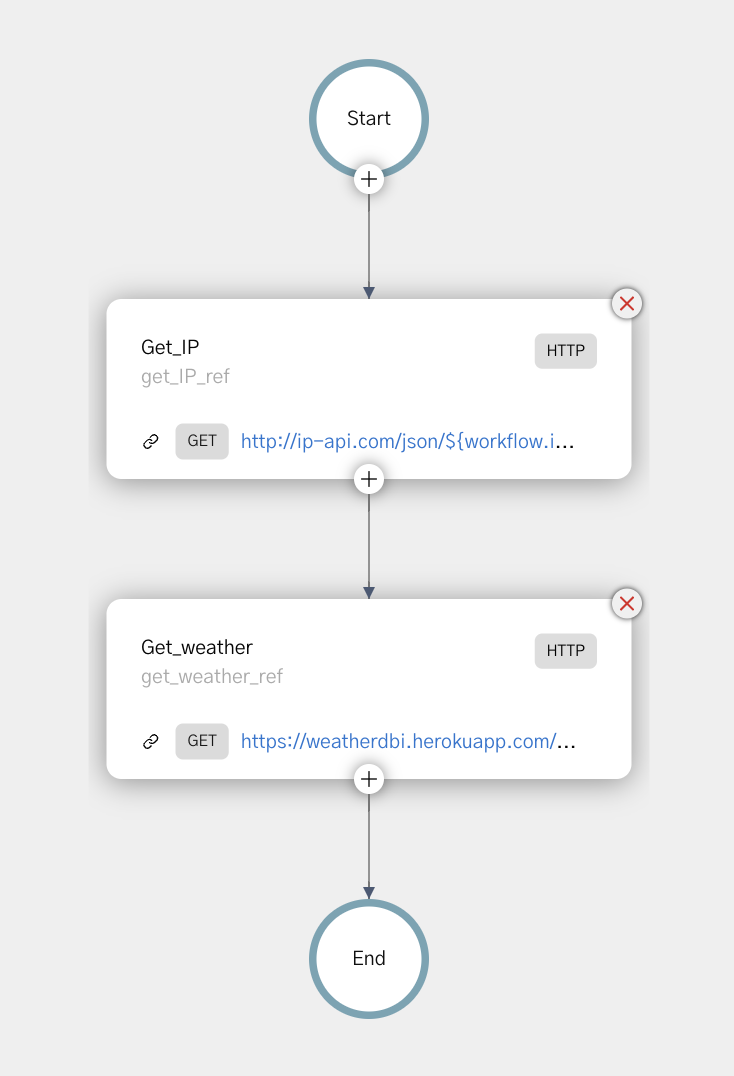
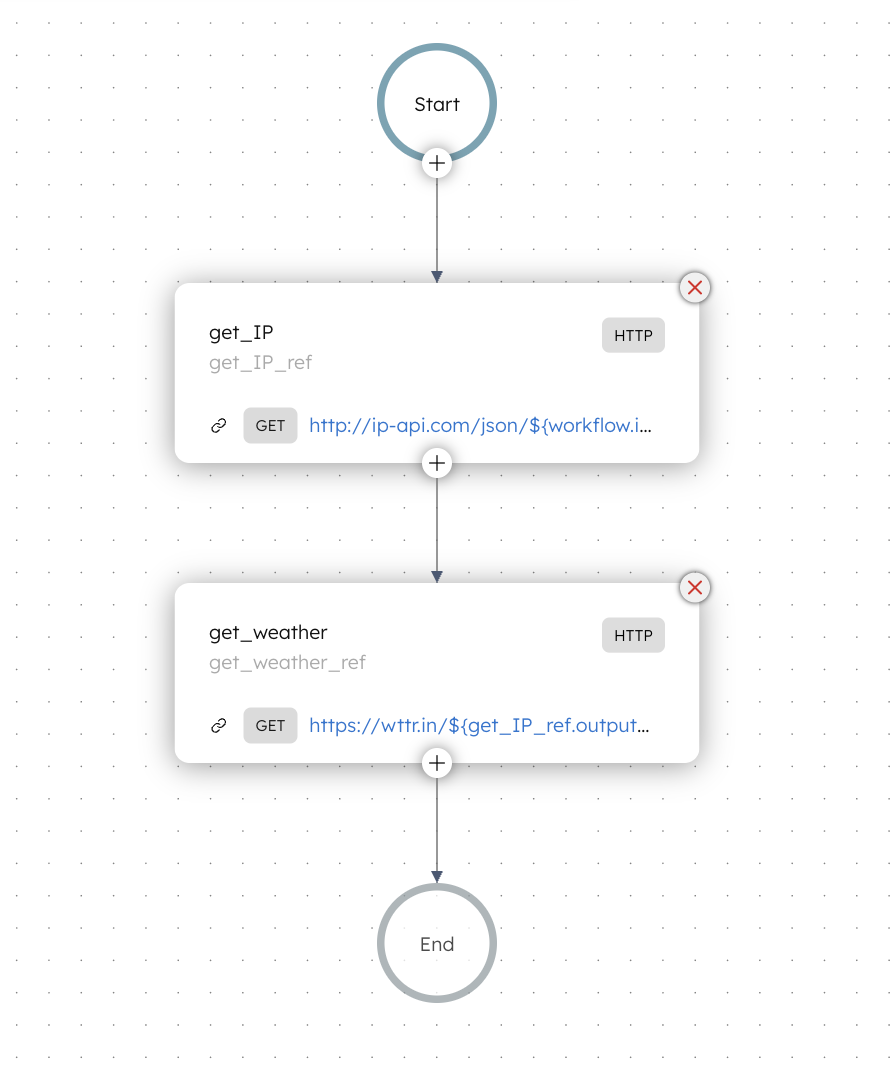
Tutorial rewrite - Sequential HTTP tasks

Changed region(s): [[0.1199, 0.0307, 0.8992, 0.9507]]

diff --git a/sidebars.js b/sidebars.js
@@ -709,7 +709,7 @@ const sidebars = {
                           },
                         {
                             type: 'doc',
-                            id: 'templates/examples/sequential-http-tasks',
+                            id: 'tutorials/sequential-http-tasks',
                             label: 'Sequential HTTP Tasks',
                         },
                         {
